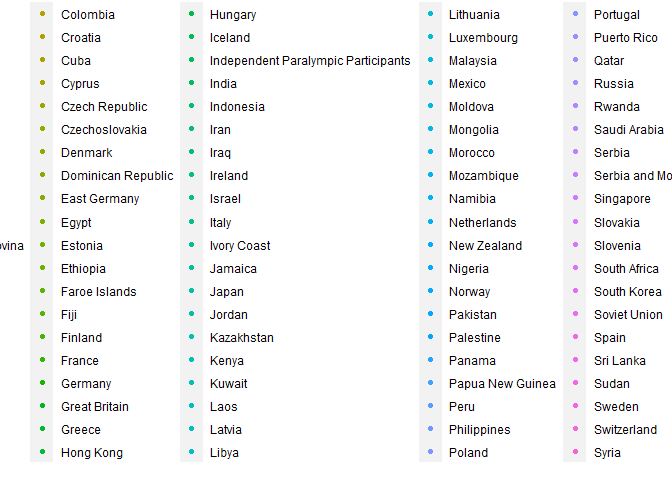
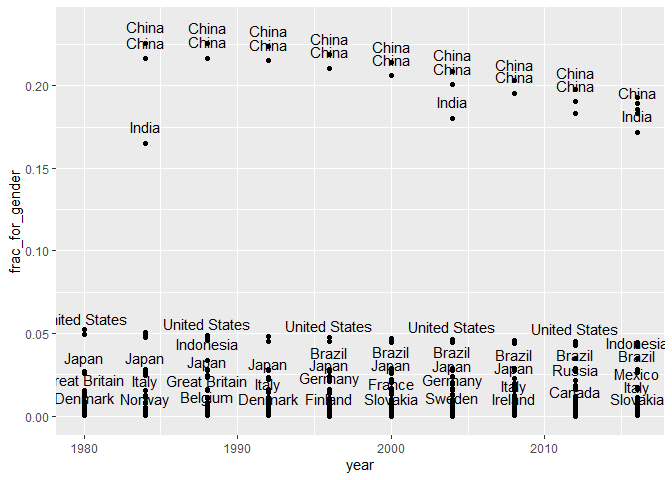
Fix incorrect graph

diff --git a/paralympics.md b/paralympics.md
@@ -339,17 +339,18 @@ paralympic_full %>%
 ![](paralympics_files/figure-gfm/years-1.png)<!-- -->
 
 But the problem with this is that we have too many observations the
-same.
+same, and what we’re really seeing at the top there are changes in one
+countries population.
 
 ``` r
 paralympic_full %>%
   select(year, frac_for_gender, country) %>%
   distinct() %>%
   ggplot(aes(x = year, y = frac_for_gender)) +
-  geom_point(aes(colour = country)) +
+  geom_point() +
   geom_text(
     aes(label = country),
-    nudge_y = 0.005,
+    nudge_y = 0.01,
     check_overlap = TRUE
   )
 ```
